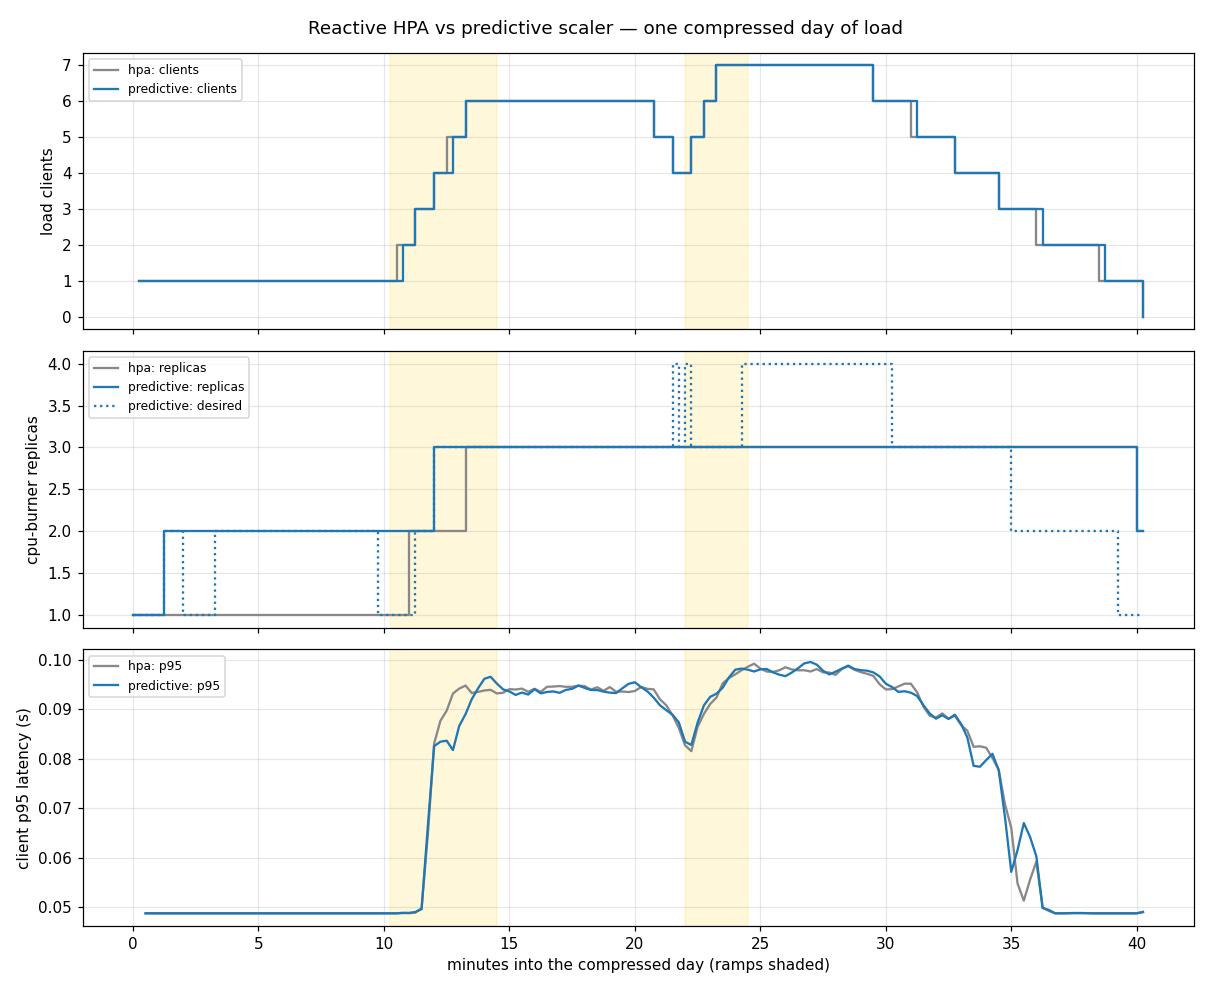
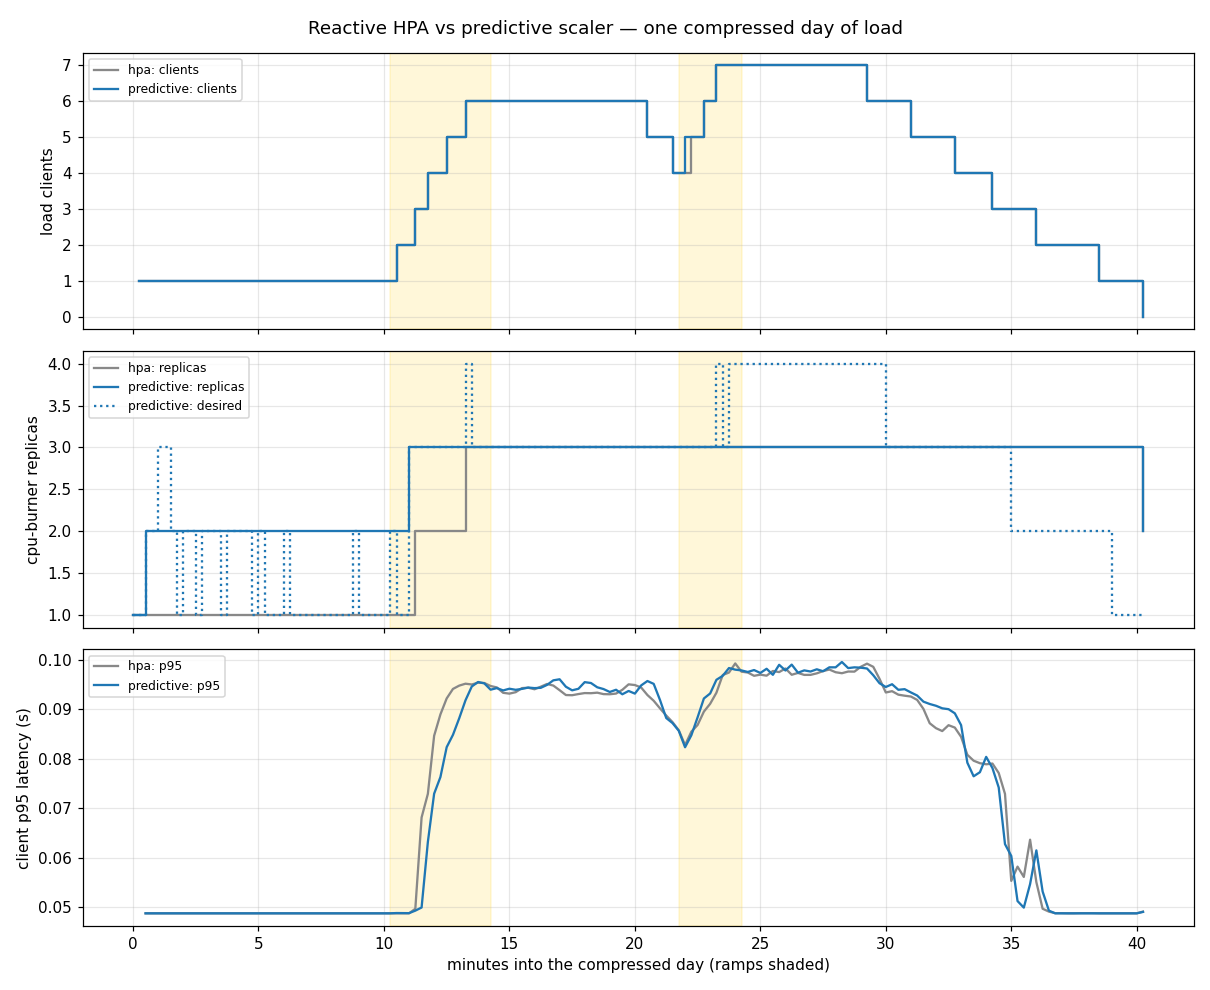
bench: results from c83f368 (2026-11-02)

diff --git a/docs/benchmark.md b/docs/benchmark.md
@@ -1,26 +1,26 @@
 # Benchmark: predictive scaler vs reactive HPA
 
-_Generated by `bench/report.py` from a run of `.github/workflows/benchmark.yml` (commit `04bc5a1`, 2026-10-31); do not edit by hand. How it is measured: [bench/README.md](../bench/README.md)._
+_Generated by `bench/report.py` from a run of `.github/workflows/benchmark.yml` (commit `86d976c`, 2026-11-02); do not edit by hand. How it is measured: [bench/README.md](../bench/README.md)._
 
 Same kind cluster, same cpu-burner workload (500m CPU per replica, up to 4 replicas), same compressed day of load (40 min per run): quiet night, sharp ramp at 06:00, lunch dip, second ramp at 13:00, evening decline. Run A scales with a plain CPU HPA at 70%; run B with the KEDA predictive scaler (`mode=max`, `forecastAggregation=max`, target 0.35 cores per replica, 30 s step) on a model trained on the warm-up days of the same pattern.
 
 | Metric | A: reactive HPA | B: predictive | B vs A |
 |---|---|---|---|
-| p95 latency during ramps (mean of 1-min p95) | 82 ms | 81 ms | (−1% better) |
-| p95 latency during ramps (worst minute) | 99 ms | 98 ms | (−0% better) |
+| p95 latency during ramps (mean of 1-min p95) | 83 ms | 80 ms | (−3% better) |
+| p95 latency during ramps (worst minute) | 99 ms | 98 ms | (−1% better) |
 | p95 latency over the day (mean of 1-min p95) | 74 ms | 74 ms | (−0% better) |
 | Requests slower than 500 ms | 0.00% | 0.00% | |
-| Client errors (timeouts) | 0 of 66842 | 0 of 66804 | |
-| Replica-minutes | 96.75 | 107.75 | (+11% worse) |
+| Client errors (timeouts) | 0 of 67116 | 0 of 66928 | |
+| Replica-minutes | 96.75 | 109.75 | (+13% worse) |
 | Peak replicas | 3 | 3 | |
 | Ramp 1 (06:00): replicas running at its start | 1 | 2 | |
-| Ramp 1 (06:00): time to 3 replicas | 180 s | 105 s | (−42% better) |
-| Ramp 1 (06:00): p95 latency (mean of 1-min p95) | 76 ms | 75 ms | (−2% better) |
+| Ramp 1 (06:00): time to 3 replicas | 180 s | 45 s | (−75% better) |
+| Ramp 1 (06:00): p95 latency (mean of 1-min p95) | 77 ms | 73 ms | (−6% better) |
 | Ramp 2 (13:00): replicas running at its start | 3 | 3 | |
 | Ramp 2 (13:00): time to 3 replicas | 0 s | 0 s | |
-| Ramp 2 (13:00): p95 latency (mean of 1-min p95) | 92 ms | 92 ms | (+1% worse) |
-| Scaler decisions from forecast / observed (run B) | — | 161 / 0 | |
-| Forecast rolling MAE, step 1, end of run B (model units) | — | 0.012 | |
+| Ramp 2 (13:00): p95 latency (mean of 1-min p95) | 91 ms | 92 ms | (+1% worse) |
+| Scaler decisions from forecast / observed (run B) | — | 144 / 0 | |
+| Forecast rolling MAE, step 1, end of run B (model units) | — | 0.009 | |
 
 ![load, replicas and p95 latency for both runs](benchmark/benchmark.png)
 
